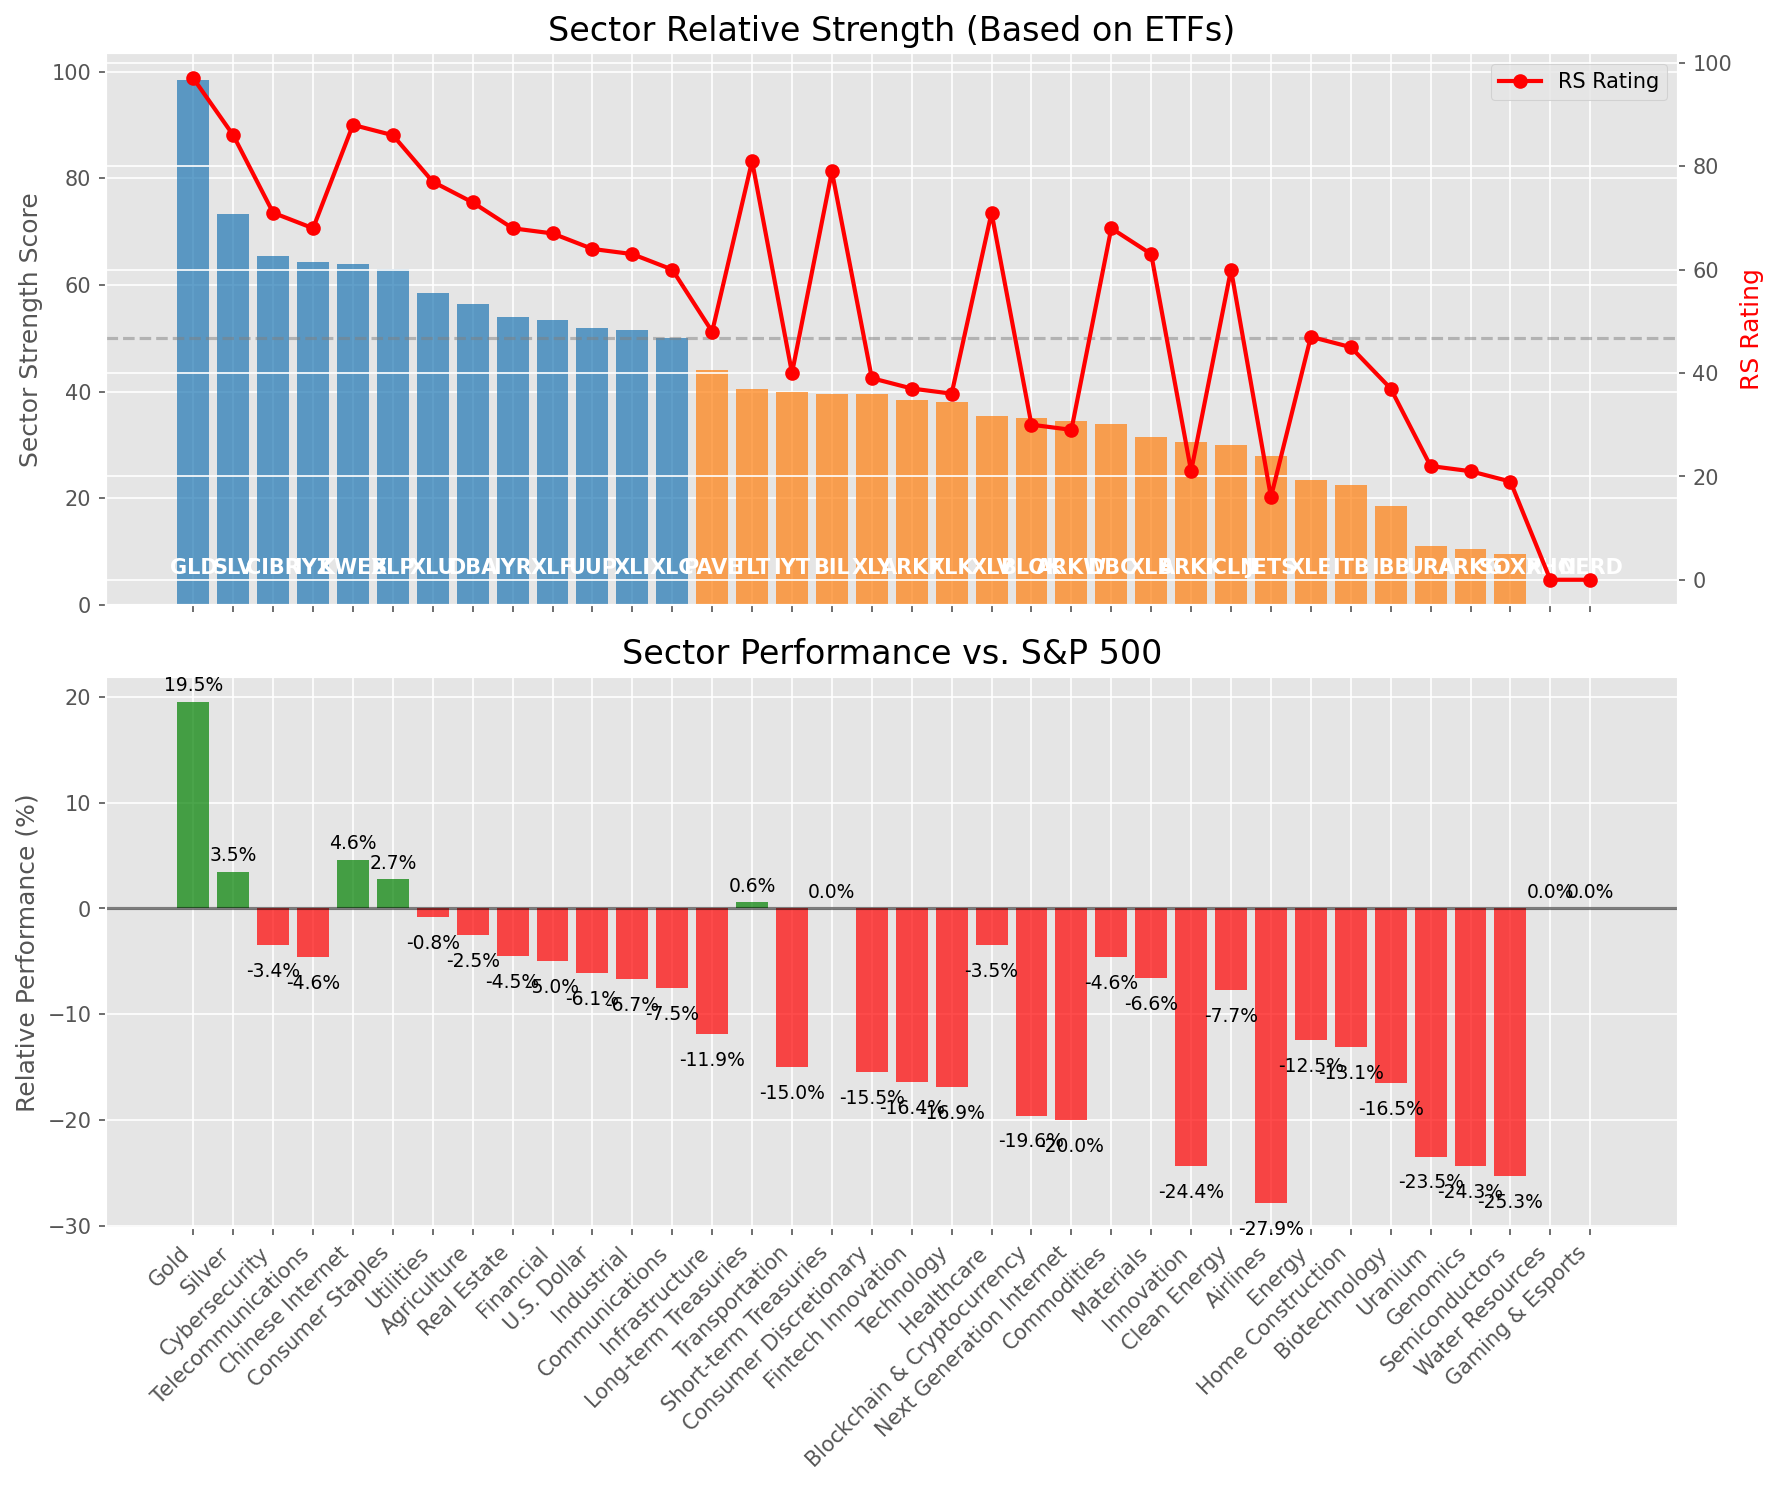
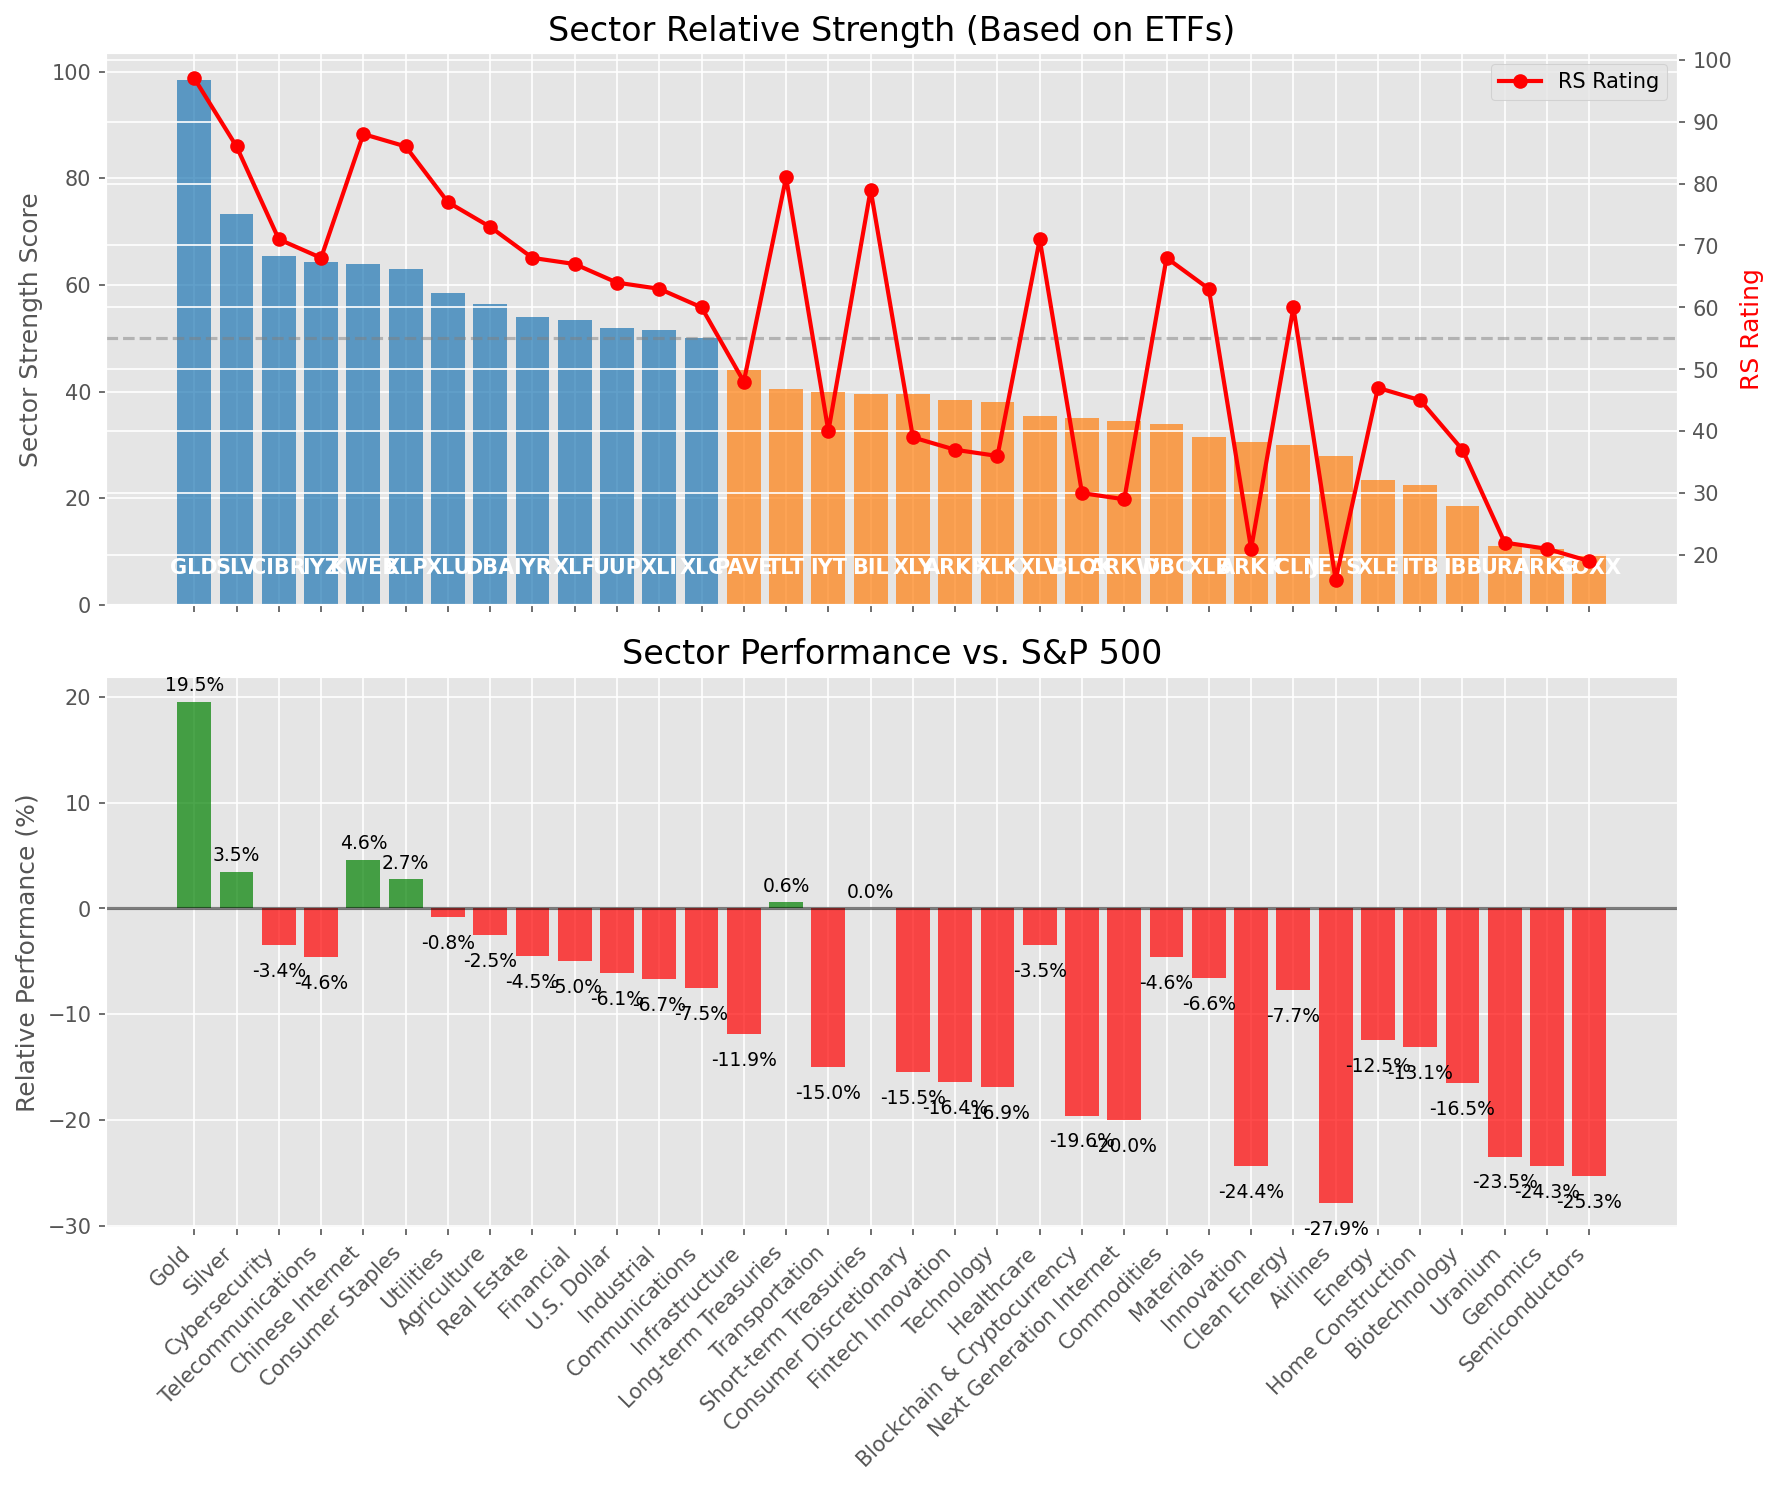
Add market report for 2025-04-11

diff --git a/oneil_relative_strength_report_2025-04-11.md b/oneil_relative_strength_report_2025-04-11.md
@@ -83,8 +83,6 @@ Based on William O'Neil's Relative Strength Methodology
 | [URA](https://www.tradingview.com/chart/?symbol=URA) | 11.0 | 22.0 | -23.47% | 10d ✗, 50d ✗, 200d ✗ | ↘ | Uranium |
 | [ARKG](https://www.tradingview.com/chart/?symbol=ARKG) | 10.5 | 21.0 | -24.35% | 10d ✗, 50d ✗, 200d ✗ | ↘ | Genomics |
 | [SOXX](https://www.tradingview.com/chart/?symbol=SOXX) | 9.5 | 19.0 | -25.32% | 10d ✗, 50d ✗, 200d ✗ | ↘ | Semiconductors |
-| [PHO](https://www.tradingview.com/chart/?symbol=PHO) | 0.0 | 0.0 | 0.00% | 10d ✗, 50d ✗, 200d ✗ | ↘ | Water Resources |
-| [NERD](https://www.tradingview.com/chart/?symbol=NERD) | 0.0 | 0.0 | 0.00% | 10d ✗, 50d ✗, 200d ✗ | ↘ | Gaming & Esports |
 
 ### **Sector ETF Performance Interpretation**
 
@@ -111,38 +109,38 @@ The following 44 stocks show exceptional relative strength:
 
 | RS Rating | Buy Score | Current Price | Chart | Name | Ticker |
 |-----------|-----------|---------------|-------|------|--------|
-| 100 | 100 | $27.97 | [Chart](https://www.tradingview.com/chart/?symbol=AGI) | Alamos Gold Inc. Class A Common Shares | AGI |
 | 100 | 100 | $111.55 | [Chart](https://www.tradingview.com/chart/?symbol=AEM) | Agnico Eagle Mines Ltd. | AEM |
+| 100 | 100 | $27.97 | [Chart](https://www.tradingview.com/chart/?symbol=AGI) | Alamos Gold Inc. Class A Common Shares | AGI |
 | 100 | 100 | $131.04 | [Chart](https://www.tradingview.com/chart/?symbol=UGL) | ProShares Ultra Gold | UGL |
-| 99 | 100 | $77.90 | [Chart](https://www.tradingview.com/chart/?symbol=WPM) | Wheaton Precious Metals Corp. Common Stock | WPM |
 | 99 | 100 | $117.30 | [Chart](https://www.tradingview.com/chart/?symbol=BJ) | BJs Wholesale Club Holdings, Inc. Common Stock | BJ |
-| 99 | 100 | $142.99 | [Chart](https://www.tradingview.com/chart/?symbol=PLMR) | Palomar Holdings, Inc. Common stock | PLMR |
 | 99 | 100 | $18.49 | [Chart](https://www.tradingview.com/chart/?symbol=SWI) | SolarWinds Corporation Common Stock | SWI |
+| 99 | 100 | $77.90 | [Chart](https://www.tradingview.com/chart/?symbol=WPM) | Wheaton Precious Metals Corp. Common Stock | WPM |
+| 99 | 100 | $142.99 | [Chart](https://www.tradingview.com/chart/?symbol=PLMR) | Palomar Holdings, Inc. Common stock | PLMR |
 | 99 | 100 | $58.23 | [Chart](https://www.tradingview.com/chart/?symbol=GDXJ) | VanEck Junior Gold Miners ETF | GDXJ |
-| 99 | 100 | $170.97 | [Chart](https://www.tradingview.com/chart/?symbol=RGLD) | Royal Gold Inc | RGLD |
 | 99 | 100 | $15.49 | [Chart](https://www.tradingview.com/chart/?symbol=EZPW) | Ezcorp Inc | EZPW |
+| 99 | 100 | $170.97 | [Chart](https://www.tradingview.com/chart/?symbol=RGLD) | Royal Gold Inc | RGLD |
 | 98 | 100 | $22.02 | [Chart](https://www.tradingview.com/chart/?symbol=SRAD) | Sportradar Group AG Class A Ordinary Shares | SRAD |
-| 97 | 100 | $30.26 | [Chart](https://www.tradingview.com/chart/?symbol=SGOL) | abrdn Physical Gold Shares ETF | SGOL |
-| 97 | 100 | $31.26 | [Chart](https://www.tradingview.com/chart/?symbol=BAR) | GraniteShares Gold Shares | BAR |
 | 97 | 100 | $59.81 | [Chart](https://www.tradingview.com/chart/?symbol=IAU) | iShares Gold Trust | IAU |
-| 97 | 100 | $240.23 | [Chart](https://www.tradingview.com/chart/?symbol=RSG) | Republic Services Inc. | RSG |
-| 97 | 100 | $31.63 | [Chart](https://www.tradingview.com/chart/?symbol=IAUM) | iShares Gold Trust Micro | IAUM |
+| 97 | 100 | $30.26 | [Chart](https://www.tradingview.com/chart/?symbol=SGOL) | abrdn Physical Gold Shares ETF | SGOL |
 | 97 | 100 | $24.32 | [Chart](https://www.tradingview.com/chart/?symbol=PHYS) | Sprott Physical Gold Trust | PHYS |
+| 97 | 100 | $240.23 | [Chart](https://www.tradingview.com/chart/?symbol=RSG) | Republic Services Inc. | RSG |
+| 97 | 100 | $292.35 | [Chart](https://www.tradingview.com/chart/?symbol=GLD) | SPDR Gold Trust, SPDR Gold Shares | GLD |
+| 97 | 100 | $31.26 | [Chart](https://www.tradingview.com/chart/?symbol=BAR) | GraniteShares Gold Shares | BAR |
+| 97 | 100 | $31.63 | [Chart](https://www.tradingview.com/chart/?symbol=IAUM) | iShares Gold Trust Micro | IAUM |
+| 97 | 100 | $21.81 | [Chart](https://www.tradingview.com/chart/?symbol=OR) | Osisko Gold Royalties Ltd | OR |
 | 97 | 100 | $30.55 | [Chart](https://www.tradingview.com/chart/?symbol=OUNZ) | VanEck Merk Gold ETF | OUNZ |
 | 97 | 100 | $62.80 | [Chart](https://www.tradingview.com/chart/?symbol=GLDM) | SPDR Gold MiniShares | GLDM |
-| 97 | 100 | $292.35 | [Chart](https://www.tradingview.com/chart/?symbol=GLD) | SPDR Gold Trust, SPDR Gold Shares | GLD |
 | 97 | 100 | $31.32 | [Chart](https://www.tradingview.com/chart/?symbol=AAAU) | Goldman Sachs Physical Gold ETF Shares | AAAU |
-| 97 | 100 | $21.81 | [Chart](https://www.tradingview.com/chart/?symbol=OR) | Osisko Gold Royalties Ltd | OR |
 | 96 | 100 | $37.48 | [Chart](https://www.tradingview.com/chart/?symbol=MRX) | Marex Group plc Ordinary Shares | MRX |
+| 95 | 100 | $67.90 | [Chart](https://www.tradingview.com/chart/?symbol=KR) | The Kroger Co. | KR |
 | 95 | 100 | $52.15 | [Chart](https://www.tradingview.com/chart/?symbol=SKWD) | Skyward Specialty Insurance Group, Inc. Common Stock | SKWD |
 | 95 | 100 | $27.97 | [Chart](https://www.tradingview.com/chart/?symbol=CEF) | Sprott Physical Gold and Silver Trust | CEF |
-| 95 | 100 | $67.90 | [Chart](https://www.tradingview.com/chart/?symbol=KR) | The Kroger Co. | KR |
 | 94 | 100 | $102.13 | [Chart](https://www.tradingview.com/chart/?symbol=EHC) | Encompass Health Corporation Common Stock | EHC |
-| 94 | 100 | $438.01 | [Chart](https://www.tradingview.com/chart/?symbol=CASY) | Casey's General Stores Inc | CASY |
 | 94 | 100 | $273.18 | [Chart](https://www.tradingview.com/chart/?symbol=PGR) | Progressive Corporation | PGR |
+| 94 | 100 | $438.01 | [Chart](https://www.tradingview.com/chart/?symbol=CASY) | Casey's General Stores Inc | CASY |
 | 93 | 100 | $40.55 | [Chart](https://www.tradingview.com/chart/?symbol=BTI) | British American Tobacco p.l.c. American Depositary Shares, American Depositary Shares, each representing one Ordinary Share | BTI |
-| 93 | 100 | $31.71 | [Chart](https://www.tradingview.com/chart/?symbol=KTOS) | Kratos Defense & Security Solutions, Inc. | KTOS |
 | 93 | 100 | $153.92 | [Chart](https://www.tradingview.com/chart/?symbol=SFM) | Sprouts Farmers Market, Inc. | SFM |
+| 93 | 100 | $31.71 | [Chart](https://www.tradingview.com/chart/?symbol=KTOS) | Kratos Defense & Security Solutions, Inc. | KTOS |
 | 93 | 100 | $102.78 | [Chart](https://www.tradingview.com/chart/?symbol=ATGE) | Adtalem Global Education Inc. Common Shares | ATGE |
 | 92 | 100 | $113.25 | [Chart](https://www.tradingview.com/chart/?symbol=OLLI) | Ollie's Bargain Outlet Holdings, Inc. Common Stock | OLLI |
 | 92 | 100 | $47.50 | [Chart](https://www.tradingview.com/chart/?symbol=GFL) | GFL Environmental Inc. Subordinate Voting Shares | GFL |
@@ -152,8 +150,8 @@ The following 44 stocks show exceptional relative strength:
 | 89 | 100 | $44.75 | [Chart](https://www.tradingview.com/chart/?symbol=MRCY) | Mercury Systems Inc. | MRCY |
 | 88 | 97 | $75.79 | [Chart](https://www.tradingview.com/chart/?symbol=FAST) | Fastenal Co | FAST |
 | 85 | 97 | $22.48 | [Chart](https://www.tradingview.com/chart/?symbol=ATSG) | Air Transport Services Group, Inc. | ATSG |
-| 85 | 96 | $74.01 | [Chart](https://www.tradingview.com/chart/?symbol=BRBR) | BellRing Brands, Inc. | BRBR |
 | 85 | 96 | $35.94 | [Chart](https://www.tradingview.com/chart/?symbol=FYBR) | Frontier Communications Parent, Inc. Common Stock | FYBR |
+| 85 | 96 | $74.01 | [Chart](https://www.tradingview.com/chart/?symbol=BRBR) | BellRing Brands, Inc. | BRBR |
 | 83 | 96 | $111.60 | [Chart](https://www.tradingview.com/chart/?symbol=BOXX) | Alpha Architect 1-3 Month Box ETF | BOXX |
 
 ---
@@ -198,8 +196,8 @@ The following 36 stocks show deteriorating relative strength:
 | 30 | 76 | $22.11 | [Chart](https://www.tradingview.com/chart/?symbol=AMRK) | A-Mark Precious Metals, Inc. | AMRK |
 | 39 | 72 | $10.30 | [Chart](https://www.tradingview.com/chart/?symbol=CSTM) | Constellium SE Class A Ordinary shares | CSTM |
 | 36 | 70 | $10.90 | [Chart](https://www.tradingview.com/chart/?symbol=LBTYK) | Liberty Global Ltd. Class C Common Shares | LBTYK |
-| 36 | 69 | $16.74 | [Chart](https://www.tradingview.com/chart/?symbol=CTRI) | Centuri Holdings, Inc. | CTRI |
 | 36 | 69 | $10.34 | [Chart](https://www.tradingview.com/chart/?symbol=CMRE) | Costamare Inc. | CMRE |
+| 36 | 69 | $16.74 | [Chart](https://www.tradingview.com/chart/?symbol=CTRI) | Centuri Holdings, Inc. | CTRI |
 | 38 | 63 | $34.28 | [Chart](https://www.tradingview.com/chart/?symbol=LIT) | Global X Lithium & Battery Tech ETF | LIT |
 
 ## **Methodology**
